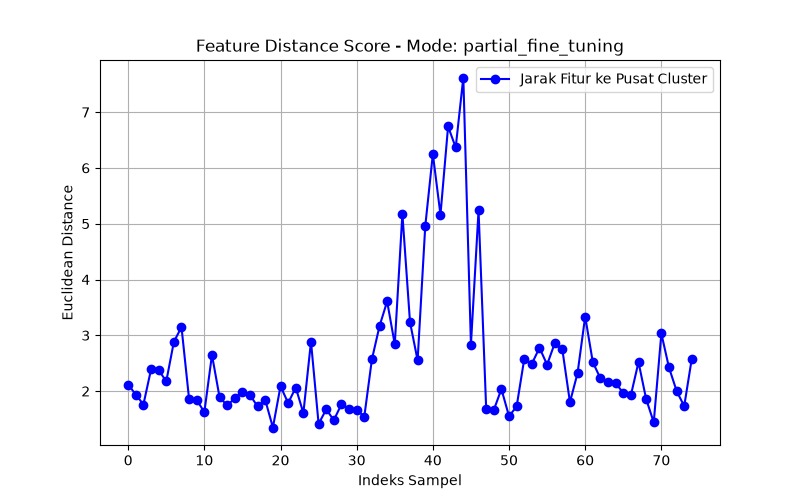
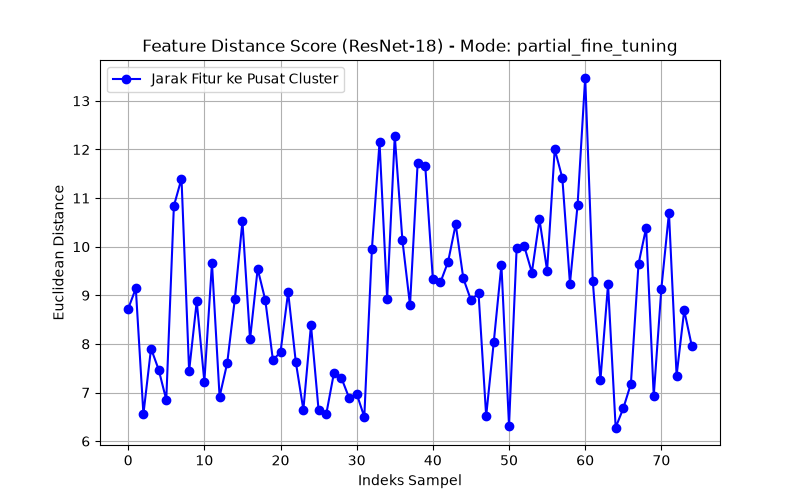
Practical Work Transfer Learning With Premodel ResNet-18

diff --git a/train_model.py b/train_model.py
@@ -2,67 +2,60 @@ import numpy as np
 import pandas as pd
 import tensorflow as tf
 from sklearn.svm import OneClassSVM
+from classification_models.tfkeras import Classifiers
 from model_utils import extract_features, measure_latency, plot_and_save_distances
 
-# 1. BACA METADATA.CSV
+# 1. BACA METADATA
 df = pd.read_csv('metadata.csv')
 file_paths = df['filename'].tolist()
 
 if len(file_paths) == 0:
-    raise ValueError("Tidak ada gambar yang ditemukan di metadata.csv! Jalankan generate_metadata.py terlebih dahulu.")
+    raise ValueError("Tiada gambar dijumpai dalam metadata.csv!")
 
-# 2. FUNGSI PEMBENTUK FEATURE EXTRACTOR (RESNET)
+# 2. LOAD MURNI ARSITEKTUR RESNET-18
+ResNet18, _ = Classifiers.get('resnet18')
+
 def build_feature_extractor(mode='feature_extraction'):
-    # Menggunakan pretrained ResNet50 (Bobot ImageNet)
-    base_model = tf.keras.applications.ResNet50(
+    base_model = ResNet18(
+        input_shape=(224, 224, 3), 
         weights='imagenet', 
-        include_top=False, 
-        input_shape=(224, 224, 3)
+        include_top=False
     )
     
-    if mode == 'feature_extraction':        # Freeze seluruh backbone ResNet
+    if mode == 'feature_extraction':        # Freeze semua layer ResNet-18
         base_model.trainable = False
-    elif mode == 'partial_fine_tuning':     # Unfreeze 20 layer teratas
+    elif mode == 'partial_fine_tuning':     # Unfreeze 5 layer teratas
         base_model.trainable = True
-        for layer in base_model.layers[:-20]:
+        for layer in base_model.layers[:-5]:
             layer.trainable = False
     elif mode == 'full_fine_tuning':        # Unfreeze semua layer
         base_model.trainable = True
 
     x = tf.keras.layers.GlobalAveragePooling2D()(base_model.output)
-    model = tf.keras.Model(inputs=base_model.input, outputs=x)
-    return model
+    return tf.keras.Model(inputs=base_model.input, outputs=x)
 
-# 3. EKSEKUSI PELATIHAN ONE-CLASS PADA 3 MODE
+# 3. EKSEKUSI TRAINING
 results = []
 modes = ['feature_extraction', 'partial_fine_tuning', 'full_fine_tuning']
 
 print("\n==========================================")
-print("  MULAI PELATIHAN ONE-CLASS RESNET DATASET")
+print("  MULAI PELATIHAN ONE-CLASS RESNET-18")
 print("==========================================")
 
 for mode in modes:
     print(f"\n---> Memproses Mode: {mode.upper()}")
     
-    # Buat feature extractor berbasis ResNet
     extractor = build_feature_extractor(mode)
-    
-    # Ekstrak fitur visual dari seluruh gambar korban
     features = extract_features(extractor, file_paths)
     
-    # Latih One-Class SVM
     oc_svm = OneClassSVM(kernel='rbf', gamma='scale', nu=0.1)
     oc_svm.fit(features)
     
-    # Hitung rata-rata jarak fitur ke pusat kluster
     center = np.mean(features, axis=0)
     distances = np.linalg.norm(features - center, axis=1)
     avg_distance = np.mean(distances)
     
-    # Ukur latensi inferensi (ms/frame)
     latency = measure_latency(extractor, file_paths[0])
-    
-    # Simpan grafik sebaran jarak
     plot_and_save_distances(distances, mode)
     
     results.append({
@@ -72,9 +65,8 @@ for mode in modes:
         'Latency (ms)': f"{latency:.2f} ms"
     })
 
-# 4. TAMPILKAN DAN SIMPAN RINGKASAN HASIL
 df_results = pd.DataFrame(results)
-print("\n=== TABEL HASIL ANALISIS DATASET KORBAN (RESNET) ===")
+print("\n=== TABEL HASIL ANALISIS DATASET KORBAN (RESNET-18) ===")
 print(df_results.to_string(index=False))
 
 df_results.to_csv('results_summary.csv', index=False)

diff --git a/model_utils.py b/model_utils.py
@@ -4,16 +4,22 @@ import matplotlib.pyplot as plt
 from PIL import Image
 
 def load_and_preprocess_image(img_path, target_size=(224, 224)):
-    """Memuat dan memproses gambar menggunakan PIL & NumPy tanpa tensorflow.keras"""
+    """Memuatkan dan memproses gambar khusus untuk ResNet-18"""
     img = Image.open(img_path).convert('RGB')
     img = img.resize(target_size)
     img_array = np.array(img, dtype=np.float32)
-    img_array = (img_array / 127.5) - 1.0  # Preprocessing MobileNetV2
+    
+    # Preprocessing standar ResNet: RGB -> BGR & Mean subtraction
+    img_array = img_array[:, :, ::-1]  # RGB ke BGR
+    img_array[:, :, 0] -= 103.939      # Mean B
+    img_array[:, :, 1] -= 116.779      # Mean G
+    img_array[:, :, 2] -= 123.68       # Mean R
+    
     img_array = np.expand_dims(img_array, axis=0)
     return img_array
 
 def extract_features(model, file_paths):
-    """Mengekstrak fitur vektor dari daftar gambar"""
+    """Ekstrak fitur dari senarai gambar"""
     features = []
     for path in file_paths:
         img_array = load_and_preprocess_image(path)
@@ -22,7 +28,7 @@ def extract_features(model, file_paths):
     return np.array(features)
 
 def measure_latency(feature_extractor, sample_img_path, num_samples=30):
-    """Mengukur latensi rata-rata ekstrasi fitur (ms/frame)"""
+    """Mengukur kelajuan/latensi inferensi (ms/frame)"""
     img_array = load_and_preprocess_image(sample_img_path)
     _ = feature_extractor.predict(img_array, verbose=0)  # Warm-up
     
@@ -31,14 +37,13 @@ def measure_latency(feature_extractor, sample_img_path, num_samples=30):
         _ = feature_extractor.predict(img_array, verbose=0)
     end_time = time.time()
     
-    avg_latency_ms = ((end_time - start_time) / num_samples) * 1000
-    return avg_latency_ms
+    return ((end_time - start_time) / num_samples) * 1000
 
 def plot_and_save_distances(distances, mode_name):
-    """Menyimpan grafik sebaran skor jarak fitur"""
+    """Menyimpan graf jarak fitur"""
     plt.figure(figsize=(8, 5))
     plt.plot(distances, marker='o', linestyle='-', color='b', label='Jarak Fitur ke Pusat Cluster')
-    plt.title(f'Feature Distance Score - Mode: {mode_name}')
+    plt.title(f'Feature Distance Score (ResNet-18) - Mode: {mode_name}')
     plt.xlabel('Indeks Sampel')
     plt.ylabel('Euclidean Distance')
     plt.grid(True)
